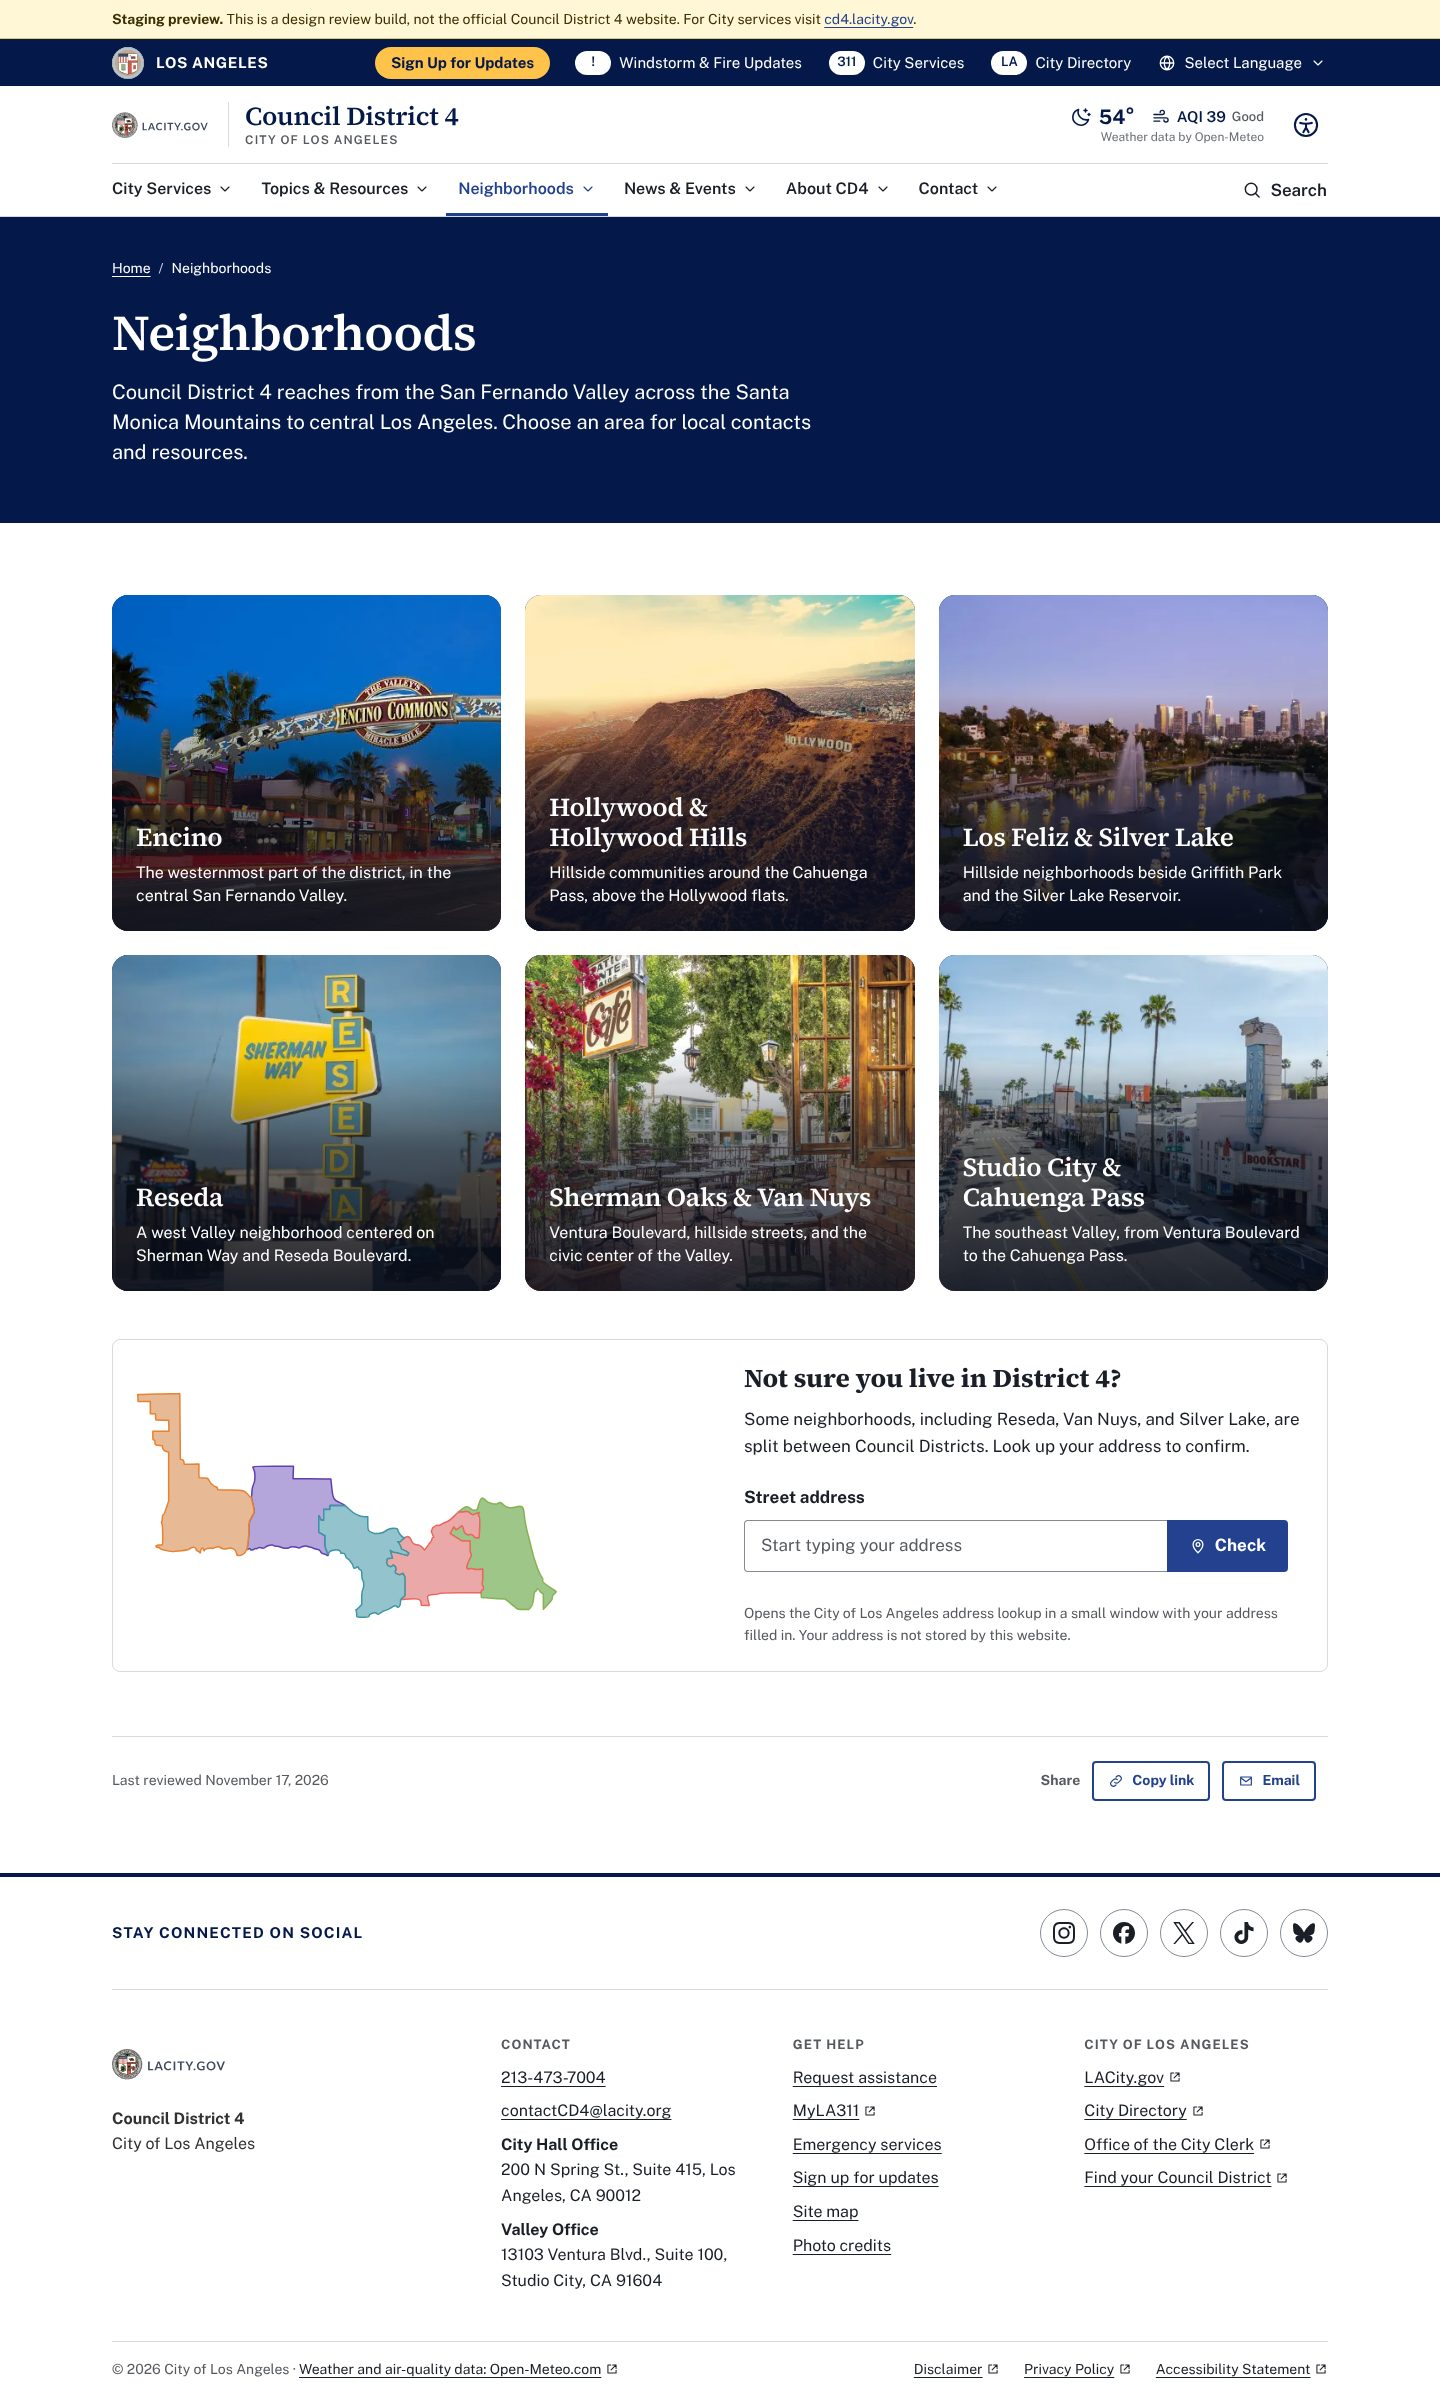
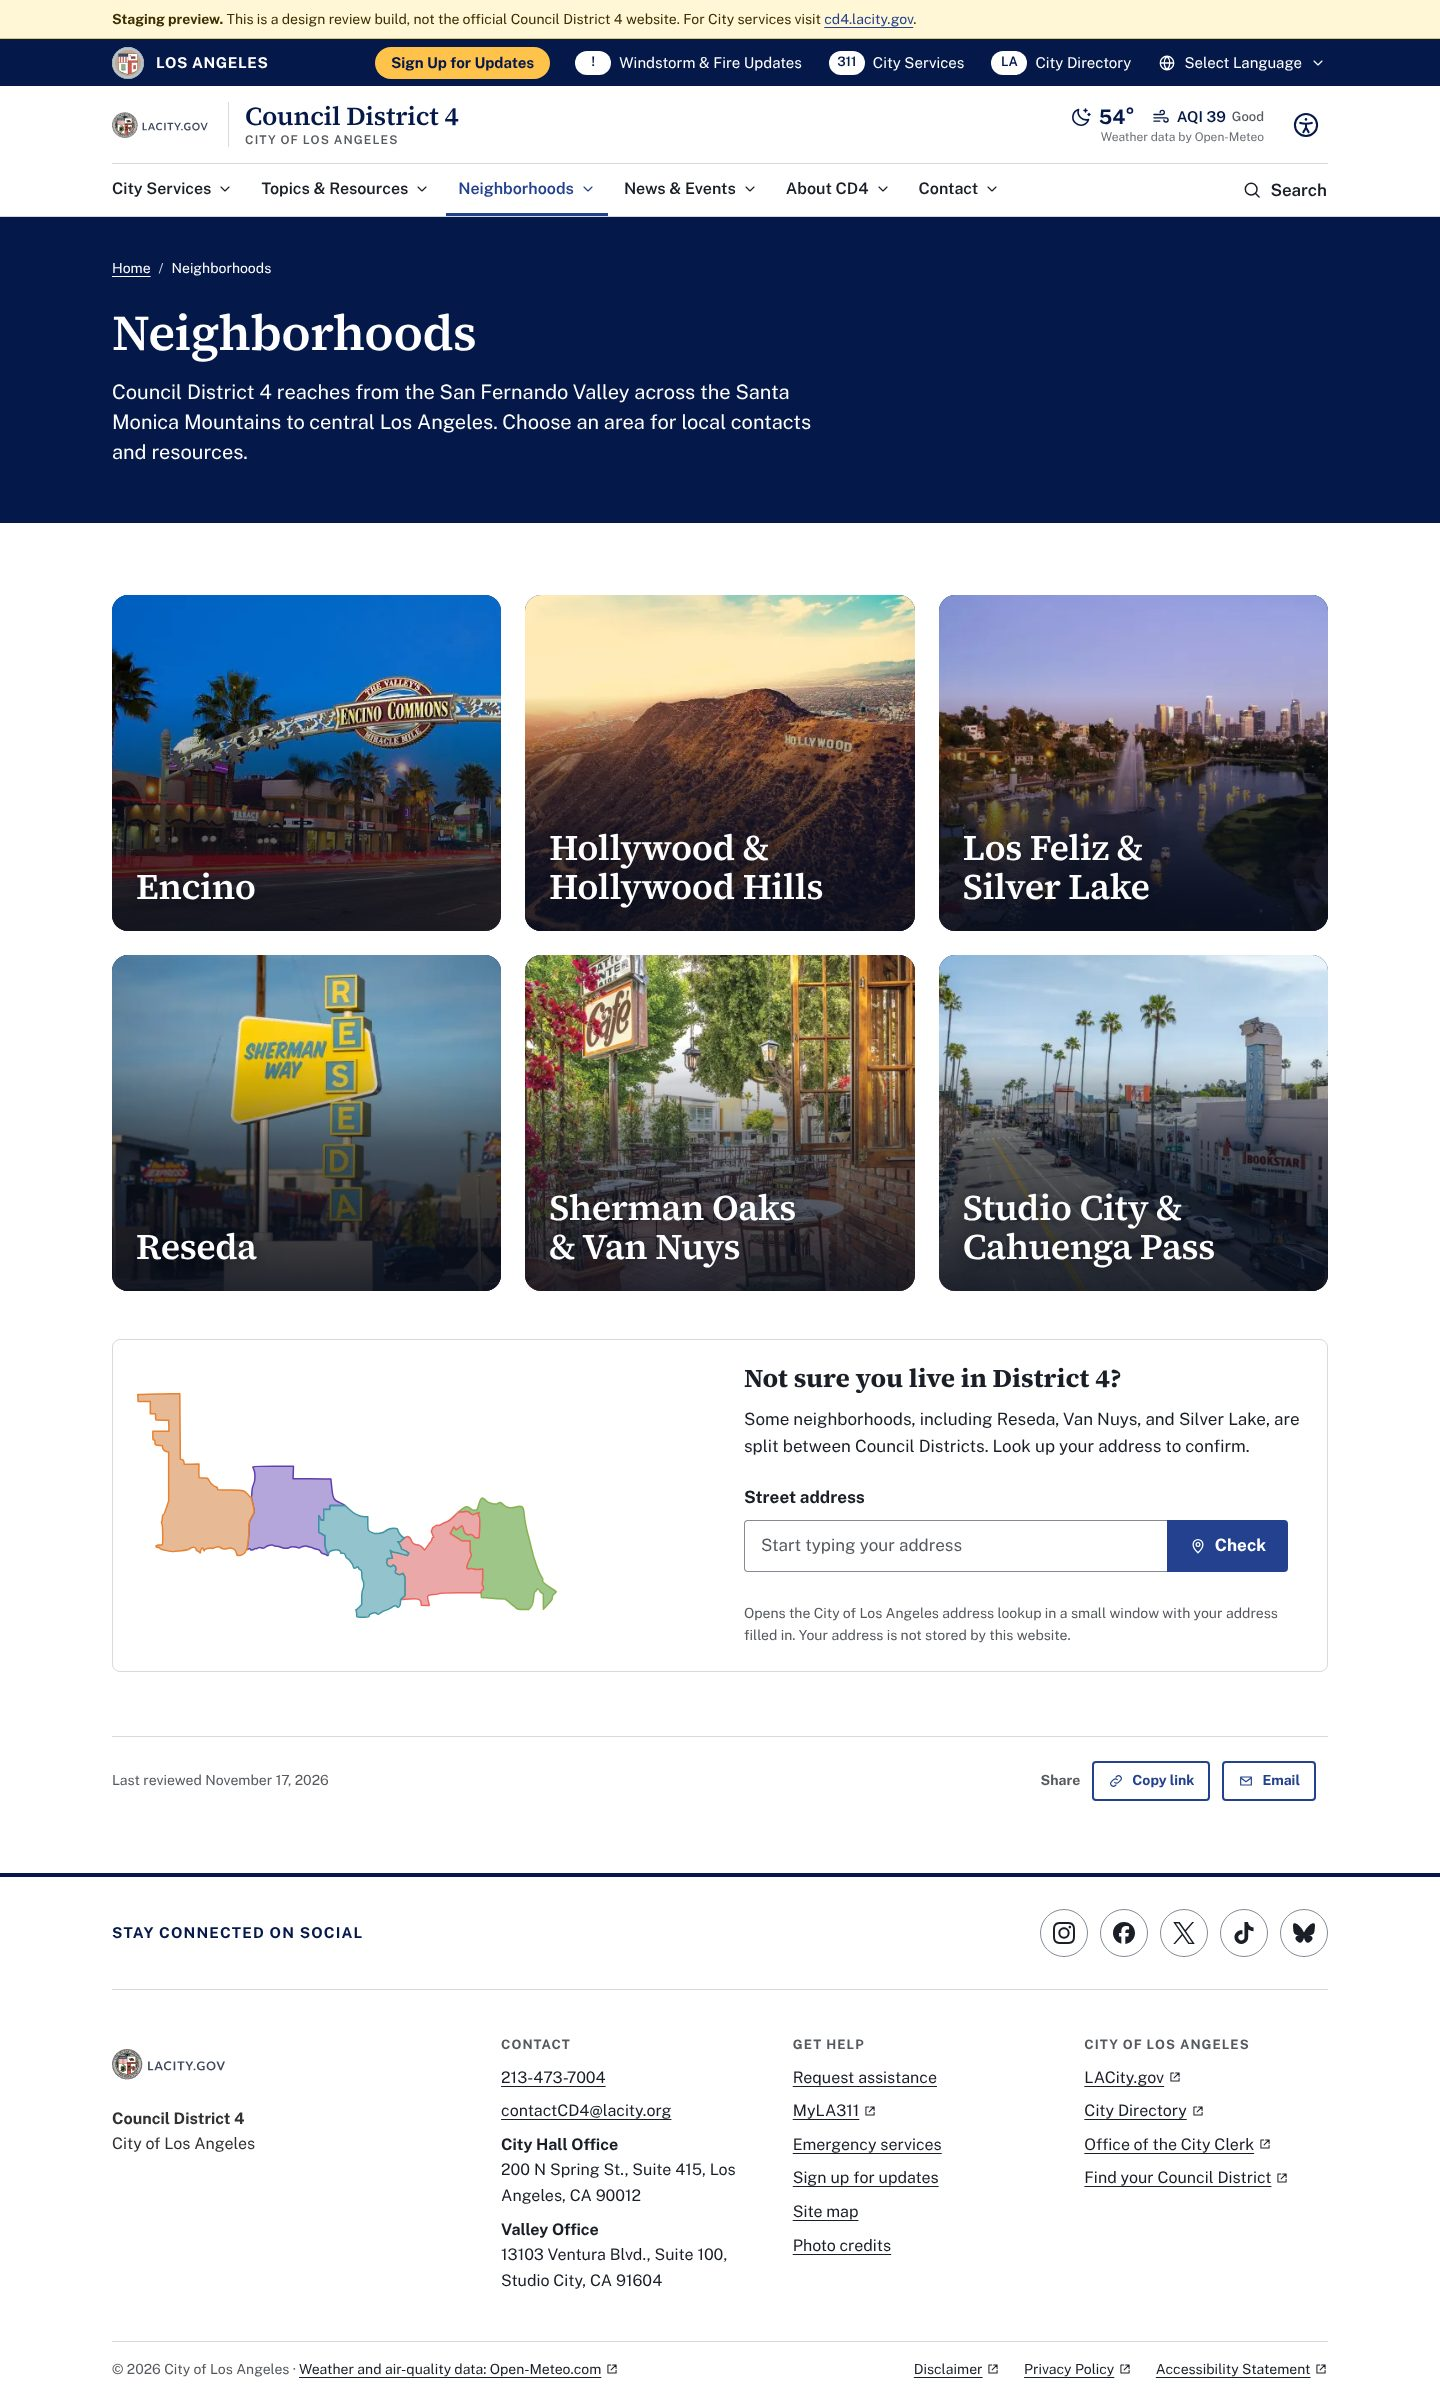
Neighborhood tiles: name only, 36px
Claude-Session: https://claude.ai/code/session_01YU6pJqnMBxtPTujsAPU4kF

diff --git a/tests/site.spec.ts b/tests/site.spec.ts
@@ -278,13 +278,12 @@ test.describe("home page sections", () => {
     await expect(page.locator(".pills .pill")).toHaveCount(10);
     await expect(page.locator(".pills p")).toHaveCount(0);
   });
-  test("neighborhood tiles have photos and short, even descriptions", async ({ page }) => {
+  test("neighborhood tiles have photos and show only the name at 36px", async ({ page }) => {
     await page.goto("/");
     const tiles = page.locator(".tile");
     await expect(tiles).toHaveCount(6);
-    const lens = await tiles.locator("p").evaluateAll((ps) => ps.map((p) => p.textContent!.length));
-    expect(Math.max(...lens)).toBeLessThanOrEqual(80);
-    expect(Math.max(...lens) - Math.min(...lens)).toBeLessThanOrEqual(12);
+    await expect(tiles.locator("p")).toHaveCount(0); // names only
+    await expect(tiles.locator("h3").first()).toHaveCSS("font-size", "36px");
     for (const img of await tiles.locator("img").all()) { await img.scrollIntoViewIfNeeded(); await expect.poll(() => img.evaluate((i: HTMLImageElement) => i.naturalWidth)).toBeGreaterThan(0); }
     await page.goto("/neighborhood/reseda/");
     await expect(page.locator(".page-header--photo")).toHaveCSS("background-image", /reseda-v2\.webp/);

diff --git a/styles/components.css b/styles/components.css
@@ -184,7 +184,7 @@ a.city-bar__link, button.city-bar__link { display: inline-flex; align-items: cen
 .tile::after { content: ""; position: absolute; inset: 0; z-index: -1; background: linear-gradient(180deg, rgb(10 16 30 / 0) 30%, rgb(10 16 30 / 0.55) 58%, rgb(10 16 30 / 0.88) 100%); }
 .tile:hover .tile__img, .tile:focus-within .tile__img { transform: scale(1.07); }
 .tile__body { padding: var(--s5); color: #fff; width: 100%; }
-.tile h3, .tile h2 { font-family: var(--font-serif); font-weight: 600; font-size: var(--step-2); color: #fff; }
+.tile h3, .tile h2 { font-family: var(--font-serif); font-weight: 600; font-size: 2.25rem; line-height: 1.1; color: #fff; text-shadow: 0 1px 10px rgb(10 16 30 / 0.5); } /* 36px */
 .tile__link { color: #fff; text-decoration: none; }
 .tile__link::after { content: ""; position: absolute; inset: 0; border-radius: 1rem; }
 .tile__link:hover { color: #fff; text-decoration: underline; text-decoration-thickness: 2px; }

diff --git a/components/Cards.tsx b/components/Cards.tsx
@@ -21,7 +21,7 @@ export function TopicCard({ topic, level = "h3" }: { topic: Topic; level?: "h2" 
   );
 }
 
-/** Photo tile: the whole tile is one link; the image zooms slightly on hover and focus. */
+/** Photo tile showing only the neighborhood name; the whole tile is one link and the image zooms slightly on hover and focus. */
 export function NeighborhoodCard({ n, level = "h3" }: { n: Neighborhood; level?: "h2" | "h3" }) {
   const photo = neighborhoodPhotos[n.slug];
   const H = level;
@@ -30,7 +30,6 @@ export function NeighborhoodCard({ n, level = "h3" }: { n: Neighborhood; level?:
       {photo && <Image className="tile__img" src={photo.src} alt="" fill sizes="(min-width: 62rem) 33vw, (min-width: 40rem) 50vw, 100vw" />}
       <div className="tile__body">
         <H><SmartLink className="tile__link" href={`/neighborhood/${n.slug}/`}>{n.title}</SmartLink></H>
-        <p>{n.blurb}</p>
       </div>
     </article>
   );
